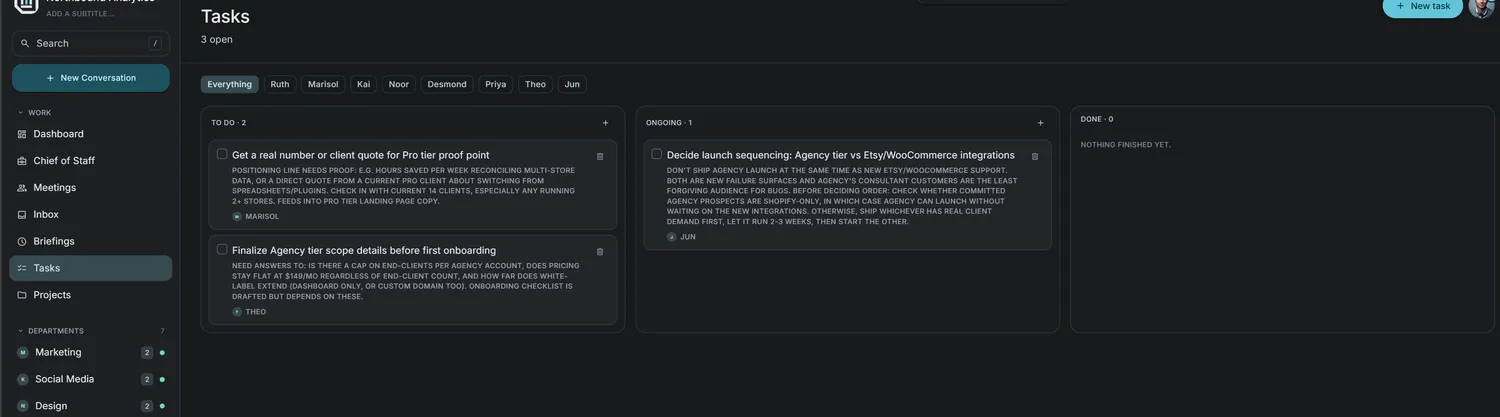
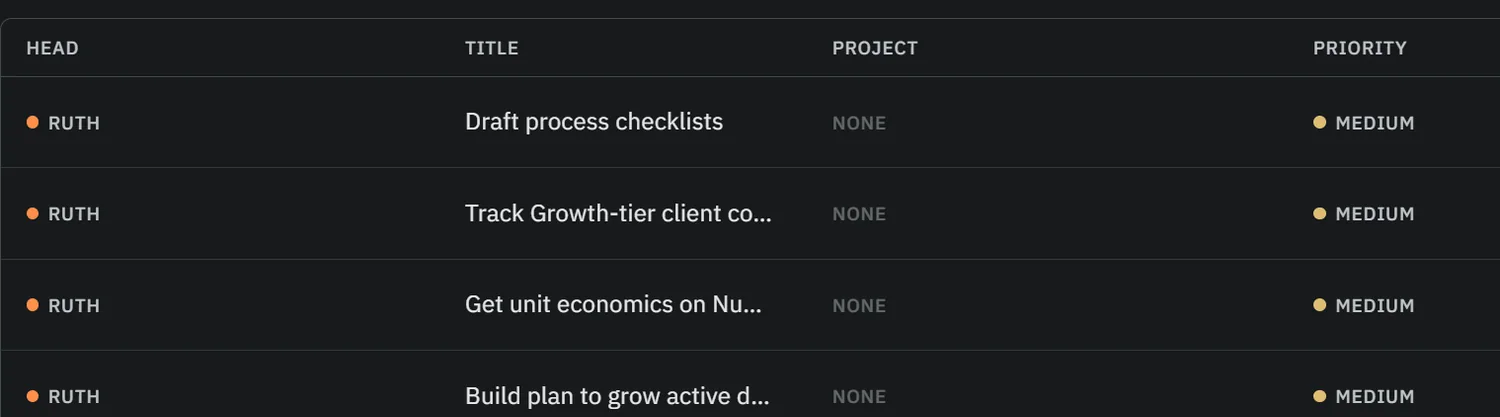
Replace every screenshot from the new captures
The old set was six images of a workspace that no longer looks like
that. All of it is gone, files included, so nothing stale is left in
public/ waiting to be referenced by accident.

The new captures arrived as 4K full-screen grabs with browser chrome
around them, so the crop is detected rather than guessed: the panel
starts at x=62, y=96 on every one of the sixteen, found by locating
the URL bar and walking down to where the frame goes dark and stays
dark. Two earlier attempts got this wrong in opposite directions, one
stopping at the dark window title bar above the URL bar and one
running into the green button inside the app.

Three captures have real addresses on screen, including a personal
one. Those are painted out inside the build rather than by hand, so
the redaction cannot be skipped by regenerating. Boxes are deliberately
wide: a truncated address is still an address.

The sources moved out of public/ to screens-src/, which is ignored.
Anything under public/ is served, and six megabytes of full-screen
grabs of a real workspace is not something to publish by accident.

The three proof cards share a 1.60 aspect so the row sits level. The
whole set is 964KB across 28 files, and a phone now pulls 87KB of
screenshots against 110KB before.

diff --git a/lib/site.ts b/lib/site.ts
@@ -66,31 +66,31 @@ export type Screenshot = {
  */
 export const screenshots: Screenshot[] = [
   {
-    src: "/screens/marketing.webp",
-    alt: "The Marketing head answering a question about how to position a pricing tier, with its reasoning shown above the answer.",
-    caption: "Ask one head a question. You see its reasoning above the answer.",
+    src: "/screens/heads.webp",
+    alt: "The Departments screen, listing eight heads from Chief of Staff to Engineering, each with a name and a count of its skills.",
+    caption: "Eight departments, each with its own brief and its own history.",
     width: 1500,
-    height: 1027,
-    fullWidth: 2600,
-    fullHeight: 1780,
+    height: 937,
+    fullWidth: 1637,
+    fullHeight: 1023,
   },
   {
-    src: "/screens/finance.webp",
-    alt: "The Finance head working out monthly revenue in a table, flagging which numbers are assumptions.",
-    caption: "It does the math and marks which numbers are assumptions rather than facts.",
+    src: "/screens/profile.webp",
+    alt: "The company profile, with the mission, what the business sells and where it is today written into plain text fields.",
+    caption: "Fill the profile in once. Every head reads it before it answers.",
     width: 1500,
-    height: 1006,
-    fullWidth: 2600,
-    fullHeight: 1743,
+    height: 938,
+    fullWidth: 1638,
+    fullHeight: 1024,
   },
   {
-    src: "/screens/engineering.webp",
-    alt: "The Engineering head answering a question about release risk, with buttons to copy, save as a deliverable, or record a decision.",
-    caption: "Turn an answer into a task, a file, or a recorded decision.",
-    width: 1500,
-    height: 1071,
-    fullWidth: 2600,
-    fullHeight: 1857,
+    src: "/screens/costs.webp",
+    alt: "A month of spend broken down by head, each row showing how many replies it gave and what they cost.",
+    caption: "What each reply cost, head by head, estimated at list prices.",
+    width: 1120,
+    height: 700,
+    fullWidth: 1120,
+    fullHeight: 700,
   },
 ];
 
@@ -116,31 +116,31 @@ export const srcSetFor = (shot: Pick<Screenshot, "src" | "width">) => {
 /** The three that stack behind the headline. */
 export const heroShots: Screenshot[] = [
   {
-    src: "/screens/chief-of-staff.webp",
-    alt: "The Chief of Staff summarising the week and saying plainly which areas it has no visibility into.",
+    src: "/screens/dashboard.webp",
+    alt: "The dashboard, showing open tasks, recorded decisions, recent conversations, spend and context per head.",
     caption: "",
     width: 1500,
-    height: 867,
+    height: 819,
     fullWidth: 2600,
-    fullHeight: 1503,
+    fullHeight: 1420,
   },
   {
     src: "/screens/tasks.webp",
-    alt: "The task board, with columns for to do, ongoing and done.",
+    alt: "The task list, with columns for head, title, project, priority and status.",
     caption: "",
     width: 1500,
     height: 417,
-    fullWidth: 2600,
-    fullHeight: 722,
+    fullWidth: 1519,
+    fullHeight: 422,
   },
   {
-    src: "/screens/context.webp",
-    alt: "A breakdown of what each department head knows, and what it costs in tokens.",
+    src: "/screens/wiki.webp",
+    alt: "The internal wiki, explaining what the panel is and how to ask a department for something useful.",
     caption: "",
-    width: 1300,
-    height: 1091,
-    fullWidth: 2180,
-    fullHeight: 1830,
+    width: 1126,
+    height: 946,
+    fullWidth: 1126,
+    fullHeight: 946,
   },
 ];
 
